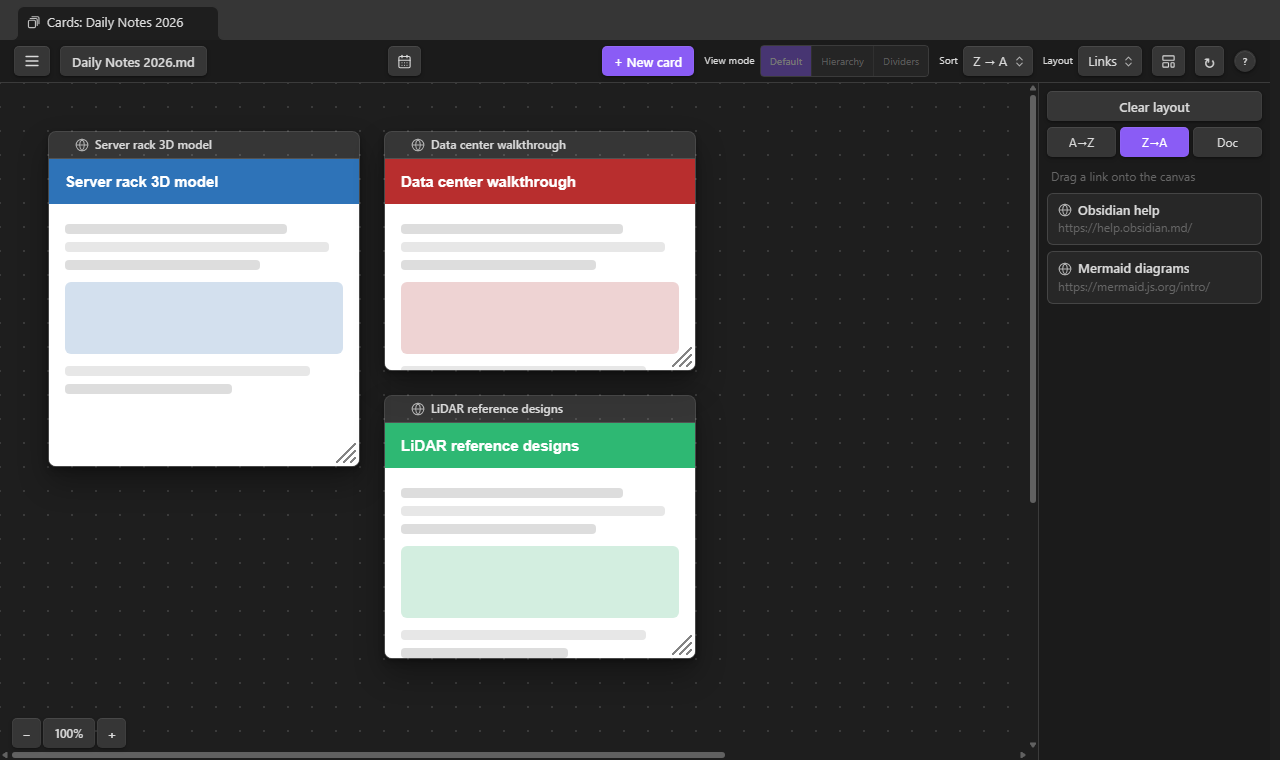
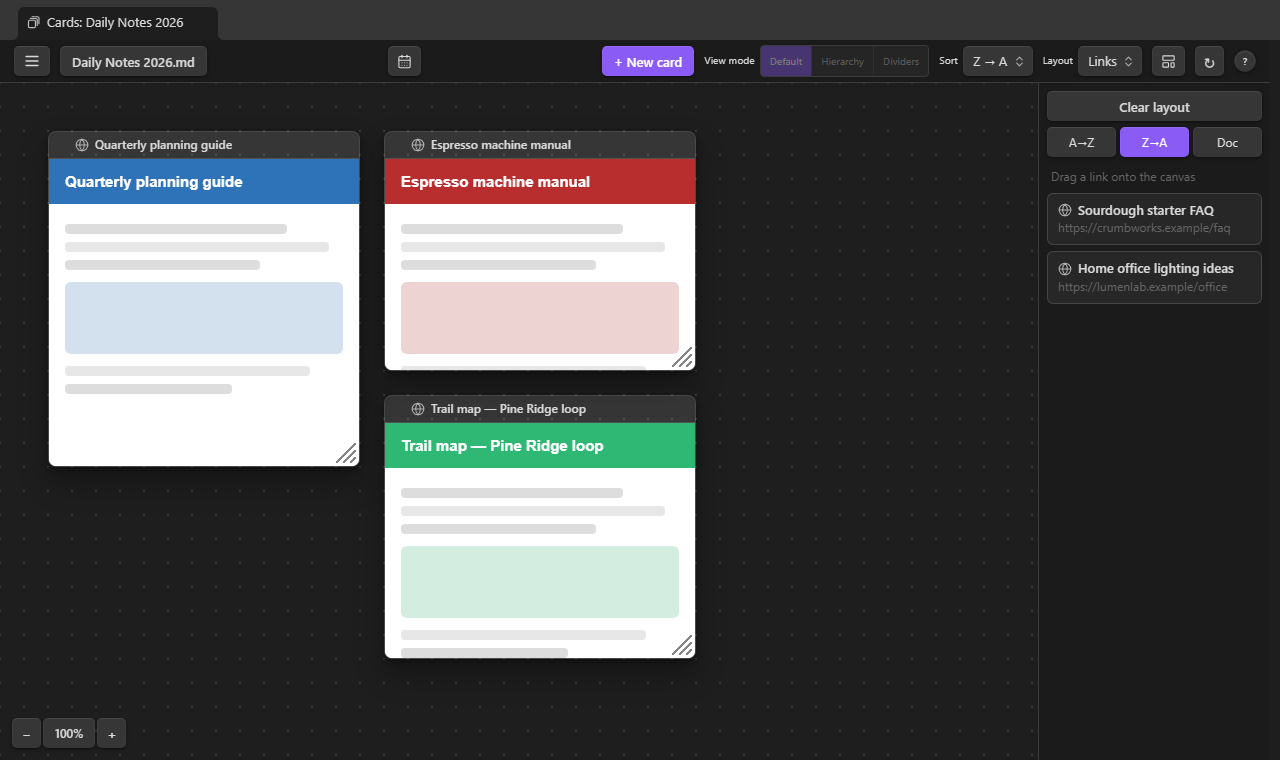
README: shorter Links section; fictional links screenshot

diff --git a/README.md b/README.md
@@ -118,12 +118,9 @@ create its card. Like the Calendar, it needs date headings.
 
 ### Links
 
-The freeform canvas once more, for the note's web links: every URL — `[name](url)` markdown links
-and bare addresses — waits in the tray, and placed tiles show a live preview of the
-page under a title bar. Previews are inert so they drag and resize like images; the
-magnifier (or a double-click) opens the page big and fully interactive, ↗ opens it in
-your browser, and right-click offers Copy URL. Sites that refuse to be embedded show
-a blank frame — the title bar still names them.
+The freeform canvas once more, for the note's web links: every URL waits in the tray,
+and placed tiles show a live page preview that drags and resizes like an image. The
+magnifier opens the page big and fully interactive; ↗ opens it in your browser.
 
 ![Links](screenshots/links.png)
 
